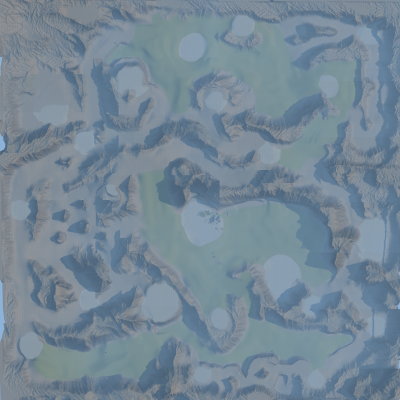
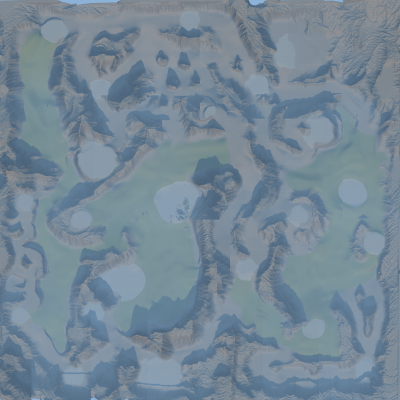
Switch heatmap UI back to previous orientation.  The sun has be restored to is east-west axis.

diff --git a/heatmap/heatmap.html b/heatmap/heatmap.html
@@ -22,7 +22,7 @@
         }
         #map {
             position:absolute;
-            background-image: url(heatmap.png);
+            background-image: url(2048topo.jpg);
             background-size: contain;
             opacity: 0.6;
             width: 200px; height: 200px;
@@ -72,7 +72,7 @@
                 transformX = function (x) {
                     x += (map.w / 2);        // move origin to left
                     x /= (map.w / 200);      // bring into range
-                    return 200 - x;          // flip origin to bottom
+                    return x;          // flip origin to bottom
                 },
                 transformY = function (y) {
                     y += (map.h / 2);        // move origin to top
@@ -97,7 +97,7 @@
                             if (h < since) {
                                 var r = 1 - ((low + (h / (since / (high - low)))) / 100);
                                 var o = { x: transformX(pos.y), y: transformY(pos.x), value: r };
-                                heatmap.addData(o);
+                                //heatmap.addData(o);
                             }
                         }
                     };
@@ -114,7 +114,7 @@
                         ctx.fillStyle = 'rgba(0,0,0,0)';
                         ctx.clearRect(0, 0, 200, 200);
                         ctx.fillStyle = 'rgb(255,0,0)';
-                        ctx.fillRect(transformX(y) - 2, transformY(x) - 2, 4, 4);
+                        ctx.fillRect(transformX(x) - 2, transformY(y) - 2, 4, 4);
                         loc.textContent = x.toFixed(2) + "," + y.toFixed(2);
                     }
                     setTimeout(displayPos, 250);
